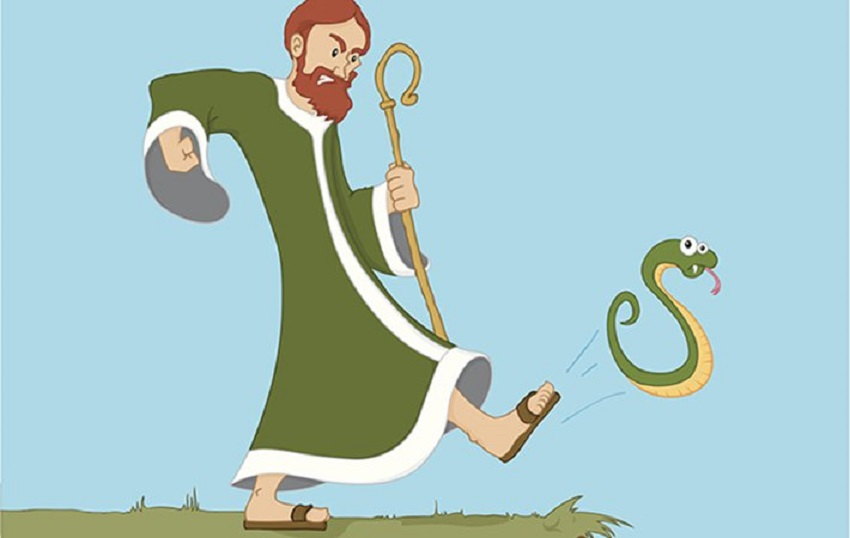
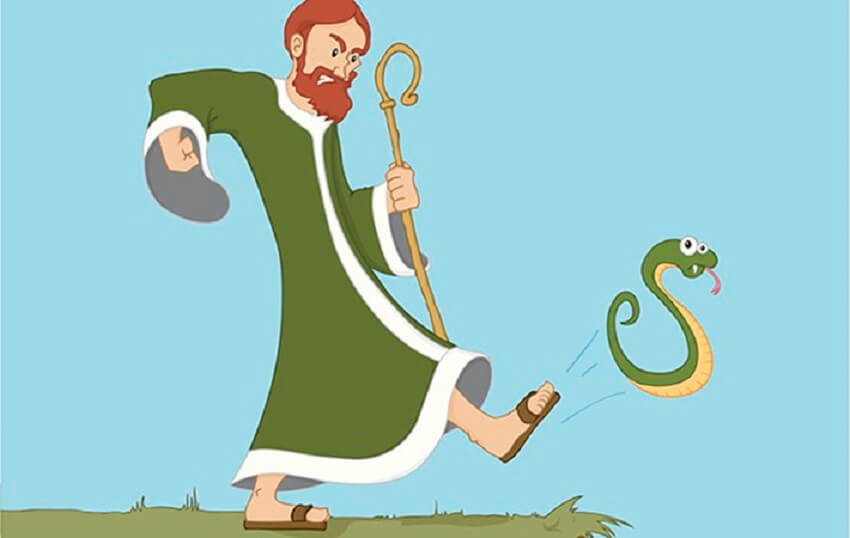
Images and Wordpress page
Further optimized iamges and created the services page and Wordpress page.

diff --git a/header.php b/header.php
@@ -38,17 +38,17 @@
               </div>
             </li>
             <li class="nav-item dropdown">
-              <a class="nav-link dropdown-toggle disabled" href="#" id="navbarDropdown" role="button" data-toggle="dropdown" aria-haspopup="true" aria-expanded="false">
+              <a class="nav-link dropdown-toggle" href="#" id="navbarDropdown" role="button" data-toggle="dropdown" aria-haspopup="true" aria-expanded="false">
                 <i class="fas fa-tools navServicesIcon">
                 </i>
                 Services
               </a>
               <div class="dropdown-menu" aria-labelledby="navbarDropdown">
                 <a class="dropdown-item" href="https://daveymason.com/services/seo"><i class="fab fa-google navServicesIcon"></i> SEO</a>
-                <a class="dropdown-item" href="https://daveymason.com/services/wordpress-developer"><i class="fab fa-wordpress navServicesIcon"></i> WordPress</a> 	
-                <a class="dropdown-item" href="https://daveymason.com/games-tester"><i class="fas fa-bug navServicesIcon"></i> Games Tester</a>
-                <a class="dropdown-item" href="https://daveymason.com/services/front-end-developer"><i class="fas fa-tablet-alt navServicesIcon"></i> Front-end & UX</a>
-                <a class="dropdown-item" href="https://daveymason.com/services/web-developer"><i class="fas fa-globe navServicesIcon"></i> Web Development</a>
+                <a class="dropdown-item" href="https://daveymason.com/services/wordpress"><i class="fab fa-wordpress navServicesIcon"></i> WordPress</a> 	
+                <a class="dropdown-item" href="https://daveymason.com/gamestester"><i class="fas fa-bug navServicesIcon"></i> Games Tester</a>
+                <a class="dropdown-item" href="https://daveymason.com/services/front-end"><i class="fas fa-tablet-alt navServicesIcon"></i> Front-end & UX</a>
+                <a class="dropdown-item" href="https://daveymason.com/services/webdeveloper"><i class="fas fa-globe navServicesIcon"></i> Web Development</a>
                 <div class="dropdown-divider"></div>
                 <a class="dropdown-item" href="https://learnwithdavey.com"><i class="fas fa-graduation-cap navServicesIcon"></i> Online Teaching</a>
               </div>
